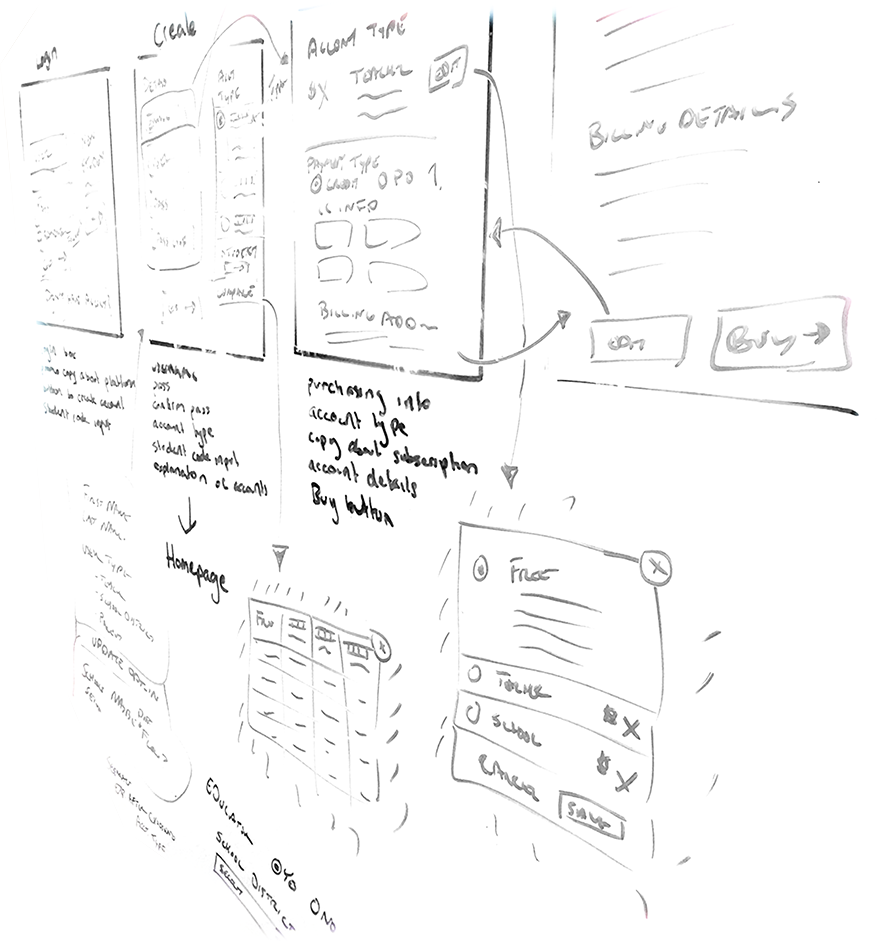
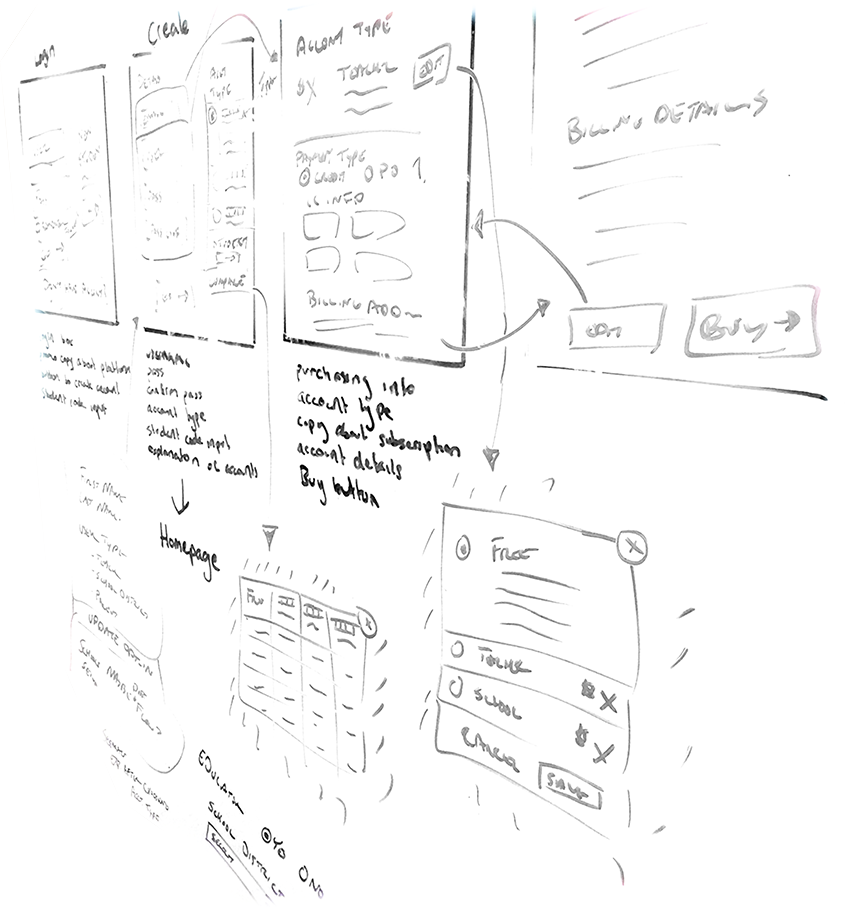
Remade the KD mosaic/collage area.

diff --git a/src/templates/case-studies/kids-discover.js b/src/templates/case-studies/kids-discover.js
@@ -5,7 +5,6 @@ import phone from '../../../static/img/case-studies/kids-discover/phone.png';
 import teacherStudents from '../../../static/img/case-studies/kids-discover/teacher-students.png';
 import applePencil from '../../../static/img/case-studies/kids-discover/apple-pencil.png';
 import homePageFeed from '../../../static/img/case-studies/kids-discover/homepage-feed.png';
-import collage from '../../../static/img/case-studies/kids-discover/collage.png';
 import dotGrid from '../../../static/img/case-studies/kids-discover/dot-grid.png';
 import studentHomework from '../../../static/img/case-studies/kids-discover/student-homework.png';
 import feedLockup from '../../../static/img/case-studies/kids-discover/feed-lockup.png';
@@ -15,6 +14,8 @@ import editorScreens from '../../../static/img/case-studies/kids-discover/editor
 import siteHomePage from '../../../static/img/case-studies/kids-discover/site-home-page.png';
 import triangleDoodle from '../../../static/img/case-studies/kids-discover/triangle_doodle.png';
 import nextImg from '../../../static/img/case-studies/hackerone/billboard.png';
+import collageMaps from '../../../static/img/case-studies/kids-discover/collage-mags.png';
+import whiteBoardSketches from '../../../static/img/case-studies/kids-discover/sketches.png';
 
 
 const KidsDiscover = class extends React.Component {
@@ -135,10 +136,10 @@ const KidsDiscover = class extends React.Component {
                         </div>
                     </div>
                 </div>
-                <div className = "m-case-study-page-content__image-container">
-                    <div className = "m-case-study-page-content__image">
-                        <img src = { collage } />
-                    </div>
+                <div className = "m-case-study-page-content__mosaic -kd">
+                    <img src = { collageMaps } className = "-collage-maps" />
+                    <img src = { whiteBoardSketches } className = "-white-board-sketches" />
+                    <div className = "-blue-banner"></div>
                 </div>
                 <div className = "o-rhythm__container">
                     <div className = "m-case-study-page-content__copy-section">

diff --git a/src/assets/scss/02_molecule/_case-study-page-content.scss b/src/assets/scss/02_molecule/_case-study-page-content.scss
@@ -229,6 +229,32 @@
             }
         }
 
+        &.-kd {
+            margin-bottom: 160px;
+
+            .-blue-banner {
+                position: absolute;
+                bottom: 0;
+                height: 315px;
+                width: 100%;
+                background: rgba(37, 179, 194, .75);
+                z-index: -1;
+            }
+
+            .-collage-maps {
+                position: relative;
+                z-index: 2;
+                left: 220px;
+            }
+
+            .-white-board-sketches {
+                position: relative;
+                z-index: -1;
+                right: -160px;
+                bottom: -116px;
+            }
+        }
+
         .-float {
             position: absolute;
             right: 20px;
